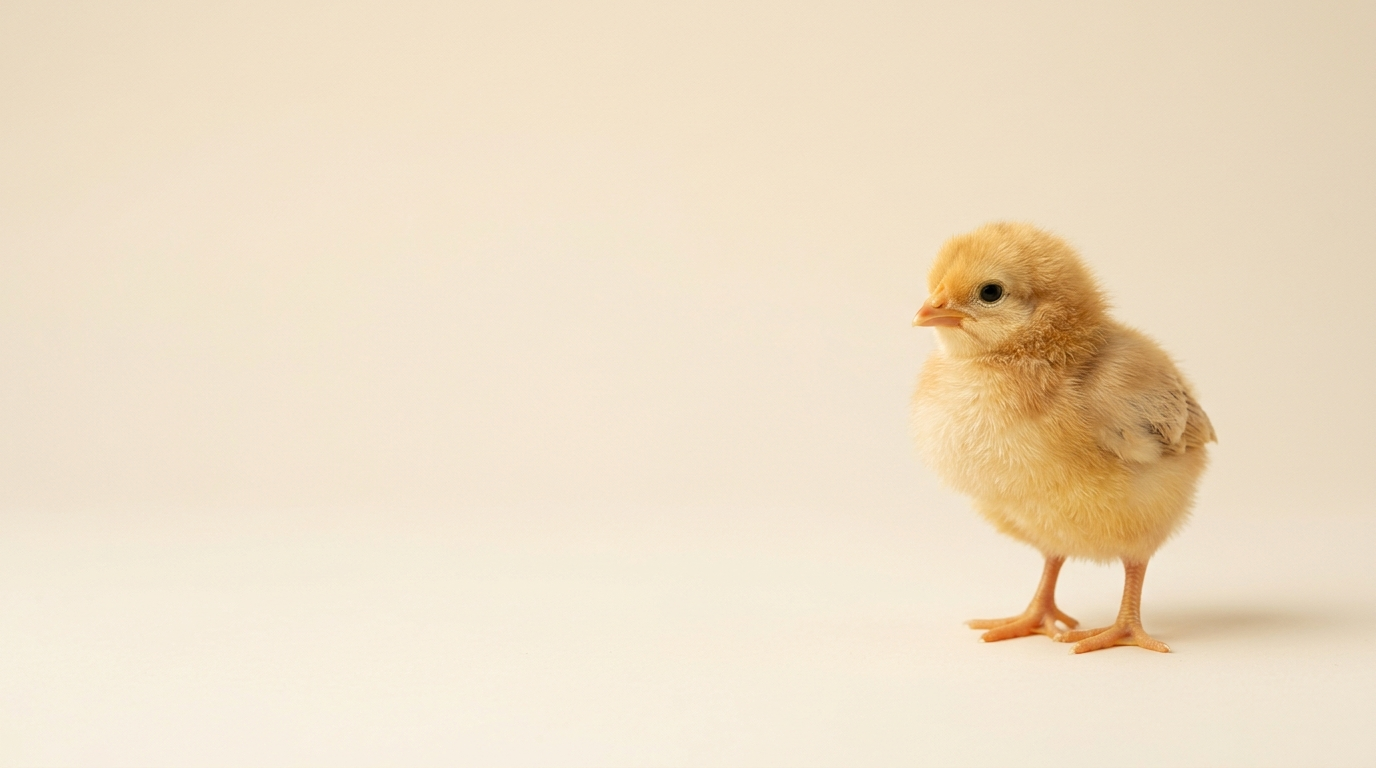
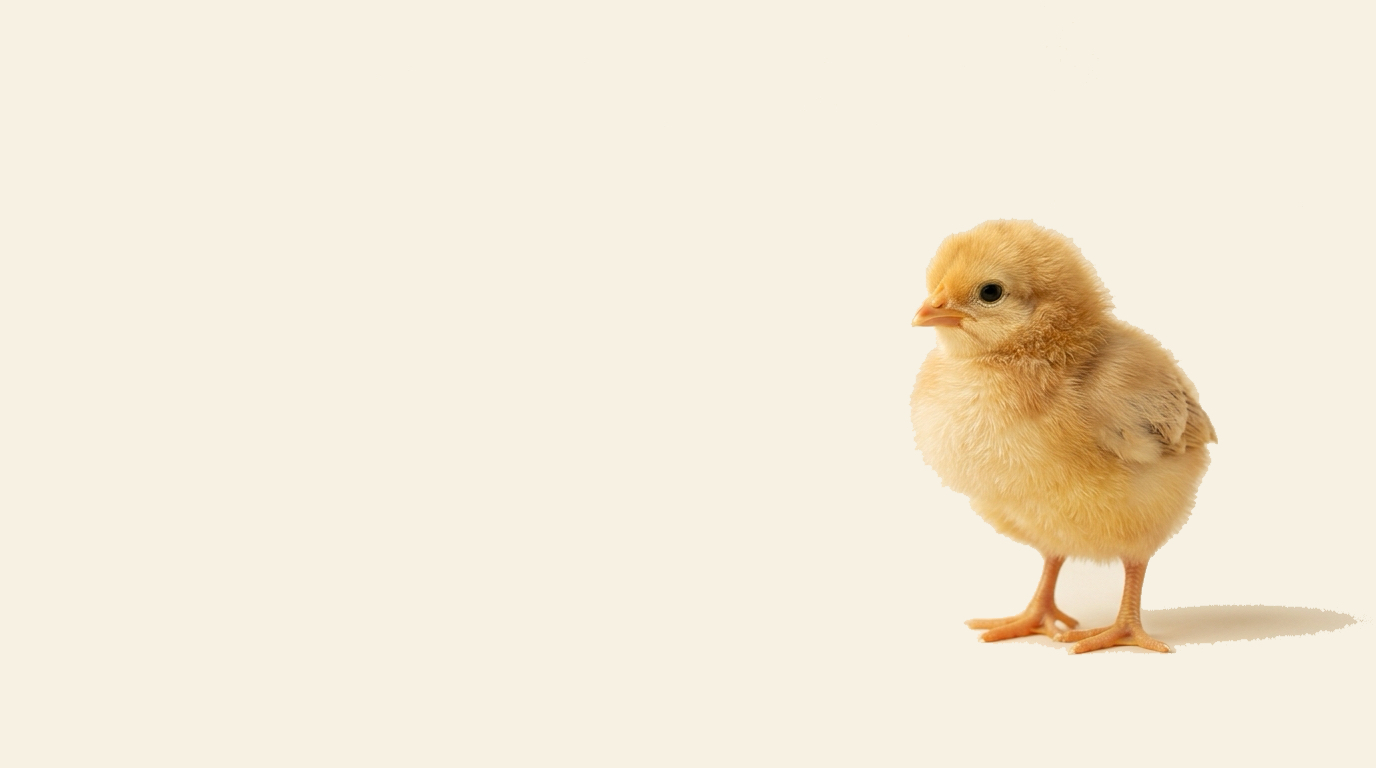
feat: refine image sizing and responsive spacing for hero, turnkey, and broiler integration

diff --git a/src/app/page.tsx b/src/app/page.tsx
@@ -9,14 +9,14 @@ const BM:{[k:string]:[string,string]}={red:[P.red,'rgba(211,47,47,0.1)'],green:[
 function PBadge({label,color}:{label:string;color:BC}){const[c,bg]=BM[color];return <span style={{background:bg,color:c,padding:'2px 8px',borderRadius:999,fontSize:'0.65rem',fontWeight:700,fontFamily:P.font,whiteSpace:'nowrap'}}>{label}</span>;}
 function PBtn({label,small=false,outline=false,onClick}:{label:string;small?:boolean;outline?:boolean;onClick?:()=>void}){return <button onClick={onClick} style={{background:outline?'transparent':P.red,color:outline?P.text:'white',border:outline?'1px solid rgba(0,0,0,0.15)':'none',borderRadius:P.rSm,padding:small?'0.18rem 0.5rem':'0.38rem 0.85rem',fontWeight:700,fontFamily:P.font,fontSize:small?'0.68rem':'0.78rem',cursor:'pointer',whiteSpace:'nowrap'}}>{label}</button>;}
 function PCard({children,style}:{children:React.ReactNode;style?:React.CSSProperties}){return <div style={{background:P.glass,backdropFilter:'blur(16px)',WebkitBackdropFilter:'blur(16px)',border:`1px solid ${P.glassBdr}`,borderRadius:P.rMd,boxShadow:P.shadow,padding:'0.9rem',...style}}>{children}</div>;}
-function PM({icon,label,value,color=P.text}:{icon:string;label:string;value:string;color?:string}){return <div style={{background:'rgba(255,255,255,0.7)',border:'1px solid rgba(0,0,0,0.06)',borderRadius:10,padding:'0.55rem 0.75rem'}}><div style={{fontSize:'0.5rem',fontWeight:700,color:P.muted,textTransform:'uppercase',letterSpacing:'0.05em',marginBottom:2,fontFamily:P.font}}>{icon} {label}</div><div style={{fontSize:'0.95rem',fontWeight:800,color,fontFamily:P.font,lineHeight:1}}>{value}</div></div>;}
+function PM({icon,label,value,color=P.text}:{icon:string;label:string;value:string;color?:string}){return <div style={{background:'rgba(255,255,255,0.7)',border:'1px solid rgba(0,0,0,0.06)',borderRadius:10,padding:'0.45rem 0.45rem',minWidth:0,overflow:'hidden'}}><div style={{fontSize:'0.48rem',fontWeight:700,color:P.muted,textTransform:'uppercase',letterSpacing:'0.04em',marginBottom:2,fontFamily:P.font,whiteSpace:'nowrap',overflow:'hidden',textOverflow:'ellipsis'}}>{icon} {label}</div><div style={{fontSize:'clamp(0.72rem, 1.6vw, 0.92rem)',fontWeight:800,color,fontFamily:P.font,lineHeight:1.1,whiteSpace:'nowrap',overflow:'hidden',textOverflow:'ellipsis'}}>{value}</div></div>;}
 function PT({headers,rows}:{headers:string[];rows:(string|React.ReactNode)[][]}){return <div style={{background:'rgba(255,255,255,0.7)',borderRadius:10,border:'1px solid rgba(0,0,0,0.06)',overflowX:'auto'}}><table style={{width:'100%',borderCollapse:'collapse',fontFamily:P.font,fontSize:'0.68rem'}}><thead><tr style={{background:'rgba(255,255,255,0.9)'}}>{headers.map((h,i)=><th key={i} style={{padding:'0.4rem 0.65rem',textAlign:'left',color:P.muted,fontWeight:700,fontSize:'0.6rem',borderBottom:'1px solid rgba(0,0,0,0.06)',whiteSpace:'nowrap'}}>{h}</th>)}</tr></thead><tbody>{rows.map((row,i)=><tr key={i} style={{borderBottom:i<rows.length-1?'1px solid rgba(0,0,0,0.04)':'none',background:i%2===0?'transparent':'rgba(255,255,255,0.3)'}}>{row.map((cell,j)=><td key={j} style={{padding:'0.45rem 0.65rem',color:P.text,verticalAlign:'middle'}}>{cell}</td>)}</tr>)}</tbody></table></div>;}
 
 const GVF={sheds:[{id:'s1',name:'Kamareddy-Shed-A',capacity:8500,rent:12000,elec:4500,water:1800,active:1},{id:'s2',name:'Kamareddy-Shed-B',capacity:7800,rent:11000,elec:4200,water:1600,active:1},{id:'s3',name:'Nizamabad-Shed-1',capacity:9200,rent:14000,elec:5200,water:2100,active:1},{id:'s4',name:'Nizamabad-Shed-2',capacity:8000,rent:12500,elec:4800,water:1900,active:1}],batches:[{id:'b1',name:'GVF-B1',shedName:'Kamareddy-Shed-A',placed:8423,age:42,live:8201,mort:222,mortPct:2.6,avgWt:2210,fcr:1.63,feed:540,startDate:'07/08/2026'},{id:'b2',name:'GVF-B2',shedName:'Kamareddy-Shed-B',placed:7756,age:35,live:7621,mort:135,mortPct:1.7,avgWt:1840,fcr:1.64,feed:430,startDate:'14/08/2026'},{id:'b3',name:'GVF-B3',shedName:'Nizamabad-Shed-1',placed:9100,age:28,live:9014,mort:86,mortPct:0.9,avgWt:1120,fcr:1.61,feed:285,startDate:'21/08/2026'},{id:'b4',name:'GVF-B4',shedName:'Nizamabad-Shed-2',placed:7980,age:15,live:7965,mort:15,mortPct:0.2,avgWt:420,fcr:1.58,feed:96,startDate:'03/09/2026'}],harvests:[{id:'h1',batch:'GVF-H3',shed:'Nizamabad-Shed-2',date:'22/07/2026',birds:7845,avgWt:2.24,totalKg:17573,rate:122,settlement:2143906},{id:'h2',batch:'GVF-H2',shed:'Kamareddy-Shed-A',date:'05/07/2026',birds:8312,avgWt:2.19,totalKg:18203,rate:118,settlement:2147954},{id:'h3',batch:'GVF-H1',shed:'Kamareddy-Shed-B',date:'18/06/2026',birds:7634,avgWt:2.21,totalKg:16871,rate:115,settlement:1940165}],feedLots:[{id:'l1',lot:'LOT-009',date:'14/09',cost:198400,preS:'0/20',starter:'—',finisher:'0/65',status:'ACTIVE'},{id:'l2',lot:'LOT-008',date:'07/09',cost:512000,preS:'0/25',starter:'8/110',finisher:'0/110',status:'ACTIVE'},{id:'l3',lot:'LOT-007',date:'01/09',cost:489600,preS:'0/60',starter:'0/90',finisher:'0/90',status:'DEPLETED'}],health:[{batch:'GVF-B2',date:'10/09',shed:'Kamareddy-Shed-B',med:'Refit Forte',type:'VITAMINS',cost:1200},{batch:'GVF-B2',date:'10/09',shed:'Kamareddy-Shed-B',med:'Terramycin',type:'ANTIBIOTIC',cost:2800},{batch:'GVF-B1',date:'02/09',shed:'Kamareddy-Shed-A',med:'Immune Boost Plus',type:'VITAMINS',cost:1500},{batch:'GVF-B3',date:'28/08',shed:'Nizamabad-Shed-1',med:'Vimeral Forte',type:'VITAMINS',cost:800}],accounting:[{batch:'GVF-H3',shed:'Nizamabad-Shed-2',status:'HARVESTED',exp:1724000,revenue:2143906,profit:419906},{batch:'GVF-H2',shed:'Kamareddy-Shed-A',status:'HARVESTED',exp:1821000,revenue:2147954,profit:326954},{batch:'GVF-H1',shed:'Kamareddy-Shed-B',status:'HARVESTED',exp:1585000,revenue:1940165,profit:355165},{batch:'GVF-B1',shed:'Kamareddy-Shed-A',status:'GROWING',exp:1184500,revenue:0,profit:-1184500},{batch:'GVF-B2',shed:'Kamareddy-Shed-B',status:'GROWING',exp:842000,revenue:0,profit:-842000}],logs:[{date:'17/09',shed:'Kamareddy-Shed-A',batch:'GVF-B1',logger:'Ravi Kumar',mort:3,starter:'—',finisher:'18 bags',fpb:188.2},{date:'17/09',shed:'Kamareddy-Shed-B',batch:'GVF-B2',logger:'Ravi Kumar',mort:2,starter:'—',finisher:'15 bags',fpb:156.8},{date:'17/09',shed:'Nizamabad-Shed-1',batch:'GVF-B3',logger:'Suresh M.',mort:1,starter:'—',finisher:'12 bags',fpb:106.4}],roles:[{name:'Co-Owner',desc:'1 user(s)'},{name:'Admin',desc:'Full access. 1 user(s)'},{name:'Field Manager',desc:'2 user(s)'},{name:'Logger',desc:'3 user(s)'}],users:[{name:'Prakash Reddy',email:'prakash@greenvalley.in',role:'OWNER'},{name:'Venkat R.',email:'venkat@greenvalley.in',role:'MANAGER'},{name:'Suresh M.',email:'suresh@greenvalley.in',role:'MANAGER'},{name:'Ravi Kumar',email:'ravi@greenvalley.in',role:'LOGGER'}]};
 
 const TAB_INFO:Record<string,{title:string;desc:string}>={OVERVIEW:{title:'Farm Overview',desc:'A live dashboard of every KPI — FCR, mortality, livability, EPEF and total active birds across all sheds in real time.'},SHEDS:{title:'Shed Management',desc:'Register all sheds with capacity, rent, electricity and water. Each shed auto-factors into batch P&L.'},BATCHES:{title:'Bird Batches',desc:'Track every batch from Day 1 — placement, age, live birds, mortality, average weight, FCR and feed consumed.'},FEED:{title:'Feed Lot Tracking',desc:'Every feed procurement logged as a lot — date, types, bags received, cost per bag, transport and labour.'},HARVESTS:{title:'Harvest Records',desc:'Record every harvest with birds collected, average weight, rate per kg, and net settlement.'},HEALTH:{title:'Flock Health Logs',desc:'Log every medication event or vaccination per batch. Total health cost accumulated automatically.'},ACCOUNTING:{title:'Accounting & P&L',desc:'Full batch-wise financial statements — chick cost, feed, health, overheads, revenue, net P&L and ROI.'},LOGS:{title:'Daily Logs',desc:"Field workers log mortality, culls and feed bags in under 2 minutes. Timestamped and photo-verified."},ACCESS:{title:'Access Management',desc:'Create custom roles with granular read/write permissions. Invite managers, loggers and partners.'}};
 
-function PRPOverview({onBatch}:{onBatch:(b:any)=>void}){return <div style={{display:'flex',flexDirection:'column',gap:'0.75rem'}}><PCard><div style={{fontFamily:P.font,fontWeight:700,fontSize:'0.82rem',marginBottom:'0.6rem'}}>Farm Summary</div><div style={{display:'grid',gridTemplateColumns:'repeat(4,1fr)',gap:'0.35rem',marginBottom:'0.4rem'}}><PM icon="🏷" label="Lifted" value="3" color="#E64A19"/><PM icon="💸" label="Expense" value="Rs51.3L" color={P.red}/><PM icon="💰" label="Revenue" value="Rs62.3L" color={P.success}/><PM icon="📈" label="Net P/L" value="+Rs11.0L" color={P.success}/></div><div style={{display:'grid',gridTemplateColumns:'repeat(4,1fr)',gap:'0.35rem'}}><PM icon="🌾" label="Feed" value="Rs35.6L" color="#795548"/><PM icon="🐥" label="Chicks" value="Rs11.2L" color="#F57F17"/><PM icon="💊" label="Health" value="Rs34,500" color="#1565C0"/><PM icon="👷" label="Labour" value="Rs2.80L" color="#1565C0"/></div></PCard><PCard><div style={{fontFamily:P.font,fontWeight:700,fontSize:'0.82rem',marginBottom:'0.6rem'}}>Production Averages</div><div style={{display:'grid',gridTemplateColumns:'repeat(3,1fr)',gap:'0.35rem'}}><PM icon="📊" label="FCR" value="1.58" color="#1565C0"/><PM icon="💀" label="Mortality" value="1.20%" color={P.success}/><PM icon="⚖" label="Avg Wt" value="2.25 kg" color={P.success}/><PM icon="📅" label="Avg Days" value="41.5 d" color="#1565C0"/><PM icon="⚡" label="EPEF" value="300" color={P.success}/><PM icon="✅" label="Livability" value="98.80%" color={P.success}/></div></PCard><PCard><div style={{fontFamily:P.font,fontWeight:700,fontSize:'0.82rem',marginBottom:'0.5rem'}}>Active Batches</div><PT headers={['Batch','Shed','Age','Placed','Live','Mort%','Avg Wt','FCR','']} rows={GVF.batches.map(b=>[<span key="n" style={{fontWeight:700}}>{b.name}</span>,b.shedName,`${b.age}d`,b.placed.toLocaleString('en-IN'),b.live.toLocaleString('en-IN'),<span key="m" style={{color:b.mortPct>3?P.red:P.warn,fontWeight:700}}>{b.mortPct}%</span>,`${b.avgWt}g`,<span key="f" style={{color:b.fcr<=1.65?P.success:P.red,fontWeight:700}}>{b.fcr.toFixed(2)}</span>,<PBtn key="v" label="View" small onClick={()=>onBatch(b)}/>])}/></PCard></div>;}
+function PRPOverview({onBatch}:{onBatch:(b:any)=>void}){return <div style={{display:'flex',flexDirection:'column',gap:'0.75rem'}}><PCard><div style={{fontFamily:P.font,fontWeight:700,fontSize:'0.82rem',marginBottom:'0.6rem'}}>Farm Summary</div><div style={{display:'grid',gridTemplateColumns:'repeat(4, minmax(0, 1fr))',gap:'0.3rem',marginBottom:'0.4rem'}}><PM icon="🏷" label="Lifted" value="3" color="#E64A19"/><PM icon="💸" label="Expense" value="Rs51.3L" color={P.red}/><PM icon="💰" label="Revenue" value="Rs62.3L" color={P.success}/><PM icon="📈" label="Net P/L" value="+Rs11.0L" color={P.success}/></div><div style={{display:'grid',gridTemplateColumns:'repeat(4, minmax(0, 1fr))',gap:'0.3rem'}}><PM icon="🌾" label="Feed" value="Rs35.6L" color="#795548"/><PM icon="🐥" label="Chicks" value="Rs11.2L" color="#F57F17"/><PM icon="💊" label="Health" value="Rs34,500" color="#1565C0"/><PM icon="👷" label="Labour" value="Rs2.80L" color="#1565C0"/></div></PCard><PCard><div style={{fontFamily:P.font,fontWeight:700,fontSize:'0.82rem',marginBottom:'0.6rem'}}>Production Averages</div><div style={{display:'grid',gridTemplateColumns:'repeat(3, minmax(0, 1fr))',gap:'0.3rem'}}><PM icon="📊" label="FCR" value="1.58" color="#1565C0"/><PM icon="💀" label="Mortality" value="1.20%" color={P.success}/><PM icon="⚖" label="Avg Wt" value="2.25 kg" color={P.success}/><PM icon="📅" label="Avg Days" value="41.5 d" color="#1565C0"/><PM icon="⚡" label="EPEF" value="300" color={P.success}/><PM icon="✅" label="Livability" value="98.80%" color={P.success}/></div></PCard><PCard><div style={{fontFamily:P.font,fontWeight:700,fontSize:'0.82rem',marginBottom:'0.5rem'}}>Active Batches</div><PT headers={['Batch','Shed','Age','Placed','Live','Mort%','Avg Wt','FCR','']} rows={GVF.batches.map(b=>[<span key="n" style={{fontWeight:700}}>{b.name}</span>,b.shedName,`${b.age}d`,b.placed.toLocaleString('en-IN'),b.live.toLocaleString('en-IN'),<span key="m" style={{color:b.mortPct>3?P.red:P.warn,fontWeight:700}}>{b.mortPct}%</span>,`${b.avgWt}g`,<span key="f" style={{color:b.fcr<=1.65?P.success:P.red,fontWeight:700}}>{b.fcr.toFixed(2)}</span>,<PBtn key="v" label="View" small onClick={()=>onBatch(b)}/>])}/></PCard></div>;}
 function PRPSheds({onManage}:{onManage:(s:any)=>void}){return <div style={{display:'flex',flexDirection:'column',gap:'0.75rem'}}><div style={{display:'flex',justifyContent:'space-between',alignItems:'center'}}><div style={{fontFamily:P.font,fontSize:'0.95rem',fontWeight:700}}>Sheds</div><PBtn label="+ New Shed"/></div><PCard style={{padding:0}}><div style={{padding:'0.35rem'}}>{GVF.sheds.map(s=><div key={s.id} style={{background:'rgba(255,255,255,0.7)',padding:'0.55rem 0.75rem',borderRadius:P.rSm,marginBottom:'0.28rem',display:'flex',justifyContent:'space-between',alignItems:'center'}}><div><div style={{fontFamily:P.font,fontWeight:700,fontSize:'0.82rem'}}>{s.name}</div><div style={{fontFamily:P.font,fontSize:'0.65rem',color:P.muted}}>Capacity: {s.capacity.toLocaleString()}</div></div><div style={{display:'flex',gap:'0.3rem',alignItems:'center'}}><PBadge label={`${s.active} Active`} color="red"/><PBtn label="Manage" small onClick={()=>onManage(s)}/></div></div>)}</div></PCard></div>;}
 function PRPShedDetail({shed}:{shed:any}){const ab=GVF.batches.find(b=>b.shedName===shed.name);return <div style={{display:'flex',flexDirection:'column',gap:'0.75rem'}}><div style={{fontFamily:P.font,fontSize:'0.95rem',fontWeight:700}}>{shed.name}</div><div style={{display:'grid',gridTemplateColumns:'repeat(3,1fr)',gap:'0.35rem'}}><PM icon="🐔" label="Capacity" value={shed.capacity.toLocaleString()}/><PM icon="⚡" label="Active" value={`${shed.active}`} color={P.red}/><PM icon="💰" label="Monthly OH" value={`Rs${(shed.rent+shed.elec+shed.water).toLocaleString()}`}/></div>{ab&&<PCard><div style={{fontFamily:P.font,fontWeight:700,fontSize:'0.82rem'}}>{ab.name} — Age: {ab.age}d · FCR: {ab.fcr}</div></PCard>}</div>;}
 function PRPBatches({onManage}:{onManage:(b:any)=>void}){return <div style={{display:'flex',flexDirection:'column',gap:'0.75rem'}}><div style={{display:'flex',justifyContent:'space-between',alignItems:'center'}}><div style={{fontFamily:P.font,fontSize:'0.95rem',fontWeight:700}}>Bird Batches</div><PBtn label="New Batch"/></div><PCard style={{padding:0}}><PT headers={['Batch','Shed','Started','Age','Placed','Live','Mort%','Avg Wt','FCR','Status','']} rows={GVF.batches.map(b=>[<span key="n" style={{fontWeight:700}}>{b.name}</span>,b.shedName,b.startDate,`${b.age}d`,b.placed.toLocaleString('en-IN'),<span key="l" style={{color:P.success,fontWeight:700}}>{b.live.toLocaleString('en-IN')}</span>,<span key="m" style={{color:b.mortPct>3?P.red:P.warn,fontWeight:700}}>{b.mortPct}%</span>,`${b.avgWt}g`,<span key="f" style={{color:b.fcr<=1.65?P.success:P.red,fontWeight:700}}>{b.fcr.toFixed(2)}</span>,<PBadge key="s" label="GROWING" color="amber"/>,<PBtn key="btn" label="Manage" small onClick={()=>onManage(b)}/>])}/></PCard></div>;}
@@ -56,26 +56,32 @@ function Navbar({onContact}:{onContact:()=>void}){const[sc,setSc]=useState(false
 
 function Hero(){
   return (
-    <section style={{
+    <section className="hero-section" style={{
       position: 'relative',
       minHeight: '100vh',
-      backgroundImage: "url('/hero-single-chick.jpg')",
-      backgroundSize: 'cover',
-      backgroundPosition: 'center right',
-      backgroundRepeat: 'no-repeat',
+      backgroundColor: C.bg,
       display: 'flex',
       alignItems: 'center',
       paddingTop: '5rem',
       overflow: 'hidden'
     }}>
-      {/* Soft gradient overlay to ensure crisp text readability on desktop and mobile */}
-      <div style={{
+      {/* Chicken visual layer */}
+      <div className="hero-chick-layer" style={{
         position: 'absolute',
         inset: 0,
-        background: 'linear-gradient(90deg, rgba(247,241,227,0.92) 0%, rgba(247,241,227,0.7) 50%, rgba(247,241,227,0.2) 85%)',
+        backgroundImage: "url('/hero-single-chick.jpg')",
+        backgroundRepeat: 'no-repeat',
         pointerEvents: 'none',
         zIndex: 1
-      }}/>
+      }} />
+
+      {/* Desktop / iPad Landscape text protection gradient (stops before chicken on right) */}
+      <div className="hero-desktop-overlay" style={{
+        position: 'absolute',
+        inset: 0,
+        pointerEvents: 'none',
+        zIndex: 1
+      }} />
       
       <div style={{
         position: 'relative',
@@ -212,7 +218,7 @@ const SVC=[{Icon:IconIntegration,title:'Broiler Integration',line:'Contract farm
 
 function ServicesSection(){
   return (
-    <section id="services" style={{ background: C.white, borderTop: `1px solid ${C.border}` }}>
+    <section id="services" style={{ background: C.white }}>
       <div className="services-outer-grid" style={{
         maxWidth: 1160,
         margin: '0 auto',
@@ -312,13 +318,12 @@ function IntegrationSection({onContact}:{onContact?:()=>void}){
       position: 'relative',
       minHeight: '88vh',
       backgroundColor: '#FFFFFF',
+      borderTop: `1px solid ${C.border}`,
       backgroundImage: "url('/integration-white-chickens.jpg')",
-      backgroundSize: '960px auto',
-      backgroundPosition: 'center center',
       backgroundRepeat: 'no-repeat',
       display: 'flex',
       alignItems: 'center',
-      padding: '3rem 0 6.5rem',
+      padding: '4.5rem 0 5.5rem',
       overflow: 'hidden'
     }}>
       <div className="integration-grid" style={{
@@ -356,8 +361,8 @@ function IntegrationSection({onContact}:{onContact?:()=>void}){
           </h2>
         </div>
 
-        {/* Center: Open gap for chickens */}
-        <div className="integration-center-spacer" style={{ minHeight: 440, pointerEvents: 'none' }} />
+        {/* Center: Chickens image container */}
+        <div className="integration-center-spacer" style={{ pointerEvents: 'none' }} />
 
         {/* Right Column: User copy & Get in Touch CTA */}
         <div>
@@ -410,12 +415,8 @@ function TurnkeySection(){
         className="turnkey-section"
         style={{
           position: 'relative',
-          minHeight: '88vh',
           backgroundColor: '#FFFFFF',
-          backgroundImage: "url('/turnkey-couple-ipad-white.jpg')",
-          backgroundSize: '1000px auto',
-          backgroundPosition: '2.5cm center',
-          backgroundRepeat: 'no-repeat',
+          borderTop: `1px solid ${C.border}`,
           display: 'flex',
           alignItems: 'center',
           padding: '6.5rem 0',
@@ -434,11 +435,8 @@ function TurnkeySection(){
             width: '100%',
           }}
         >
-          {/* Left Column: Buffer for the complete couple */}
-          <div className="turnkey-spacer" style={{ minHeight: 480, pointerEvents: 'none' }} />
-
-          {/* Right Column: Section text block with Apple fade-in-up */}
-          <div style={{ maxWidth: 540 }}>
+          {/* Mobile-only Title at top */}
+          <div className="turnkey-mobile-title">
             <div
               className="rv"
               style={{
@@ -469,6 +467,46 @@ function TurnkeySection(){
               <span style={{ display: 'block' }}>Build Alternate Wealth.</span>
               <span style={{ color: C.amber, display: 'block' }}>From Your Home.</span>
             </h2>
+          </div>
+
+          {/* Spacer / Container for couple image */}
+          <div className="turnkey-spacer" style={{ pointerEvents: 'none' }} />
+
+          {/* Right Column (desktop) / Bottom Block (mobile) */}
+          <div className="turnkey-content-col" style={{ maxWidth: 540 }}>
+            {/* Desktop-only Title */}
+            <div className="turnkey-desktop-title">
+              <div
+                className="rv"
+                style={{
+                  fontFamily: '"Inter",sans-serif',
+                  fontSize: '0.78rem',
+                  fontWeight: 700,
+                  color: C.amber,
+                  letterSpacing: '0.16em',
+                  textTransform: 'uppercase',
+                  marginBottom: '1rem'
+                }}
+              >
+                Turnkey Broiler Operation
+              </div>
+              
+              <h2
+                className="rv rv-d1"
+                style={{
+                  fontFamily: '"Playfair Display",serif',
+                  fontSize: 'clamp(2.1rem, 3.4vw, 2.85rem)',
+                  fontWeight: 900,
+                  color: C.dark,
+                  lineHeight: 1.16,
+                  marginBottom: '1.4rem',
+                  letterSpacing: '-0.02em'
+                }}
+              >
+                <span style={{ display: 'block' }}>Build Alternate Wealth.</span>
+                <span style={{ color: C.amber, display: 'block' }}>From Your Home.</span>
+              </h2>
+            </div>
             
             <p
               className="rv rv-d2"
@@ -636,16 +674,18 @@ function SoftwareSection({onContact}:{onContact:()=>void}){
 
 function AboutSection(){
   return (
-    <section id="about" style={{background:C.white,borderTop:`1px solid ${C.border}`}}>
+    <section id="about" style={{background:C.white,borderTop:`1px solid ${C.border}`,borderBottom:`1px solid ${C.border}`}}>
       <div className="about-grid about-container" style={{maxWidth:1160,margin:'0 auto',padding:'clamp(4rem, 8vw, 8rem) clamp(1.25rem, 4vw, 2rem)',alignItems:'start'}}>
-        <div className="rv-left">
+        <div>
           <div className="rv" style={{fontFamily:'"Inter",sans-serif',fontSize:'0.72rem',fontWeight:700,color:C.amber,letterSpacing:'0.16em',textTransform:'uppercase',marginBottom:'0.85rem'}}>Our Philosophy</div>
-          <h2 style={{fontFamily:'"Playfair Display",serif',fontSize:'clamp(2.1rem, 3.4vw, 2.85rem)',fontWeight:900,color:C.dark,lineHeight:1.12,marginBottom:'1.25rem'}}>Built on Data,<br/>Transparency<br/>&amp; Trust.</h2>
-          <p style={{fontFamily:'"DM Sans",sans-serif',fontSize:'0.97rem',color:C.mid,lineHeight:1.85,marginBottom:'2.5rem'}}>Poultry farming is about consistent execution and honest numbers. Every decision we make is backed by real field data, shared openly with everyone involved.</p>
-          <MinBtn label="Get in Touch" onClick={()=>document.getElementById('footer')?.scrollIntoView({behavior:'smooth'})} icon={<ArrowRight size={14}/>}/>
+          <h2 className="rv rv-d1" style={{fontFamily:'"Playfair Display",serif',fontSize:'clamp(2.1rem, 3.4vw, 2.85rem)',fontWeight:900,color:C.dark,lineHeight:1.12,marginBottom:'1.25rem'}}>Built on Data,<br/>Transparency<br/>&amp; Trust.</h2>
+          <p className="rv rv-d2" style={{fontFamily:'"DM Sans",sans-serif',fontSize:'0.97rem',color:C.mid,lineHeight:1.85,marginBottom:'2.5rem'}}>Poultry farming is about consistent execution and honest numbers. Every decision we make is backed by real field data, shared openly with everyone involved.</p>
+          <div className="rv rv-d3">
+            <MinBtn label="Get in Touch" onClick={()=>document.getElementById('footer')?.scrollIntoView({behavior:'smooth'})} icon={<ArrowRight size={14}/>}/>
+          </div>
         </div>
-        <div className="rv-right" style={{display:'flex',flexDirection:'column',gap:'2.5rem'}}>
-          {[{t:'Data before decisions',d:'We log before we act. FCR, mortality, weight — every number goes into PRP before any management call is made.'},{t:'Same numbers, both sides',d:'Our clients see the exact same P&L we do. No curated reports, no selective sharing — ever.'},{t:'Measurable targets only',d:'Every batch starts with a specific FCR and livability target. We close with a verified result, not a narrative.'},{t:'Partnership model',d:'We succeed when you succeed. Our income is tied to batch performance, not a flat management fee.'}].map((p,i)=><div key={p.t} style={{display:'flex',gap:'1.25rem',alignItems:'flex-start'}}><div style={{width:34,height:34,borderRadius:'50%',background:C.bg,border:`1px solid ${C.border}`,display:'flex',alignItems:'center',justifyContent:'center',fontFamily:'"Playfair Display",serif',fontWeight:900,fontSize:'0.75rem',color:C.amber,flexShrink:0}}>{String(i+1).padStart(2,'0')}</div><div><div style={{fontFamily:'"Playfair Display",serif',fontWeight:700,fontSize:'1rem',color:C.dark,marginBottom:'0.3rem'}}>{p.t}</div><div style={{fontFamily:'"DM Sans",sans-serif',fontSize:'0.87rem',color:C.mid,lineHeight:1.75}}>{p.d}</div></div></div>)}
+        <div style={{display:'flex',flexDirection:'column',gap:'2.5rem'}}>
+          {[{t:'Data before decisions',d:'We log before we act. FCR, mortality, weight — every number goes into PRP before any management call is made.'},{t:'Same numbers, both sides',d:'Our clients see the exact same P&L we do. No curated reports, no selective sharing — ever.'},{t:'Measurable targets only',d:'Every batch starts with a specific FCR and livability target. We close with a verified result, not a narrative.'},{t:'Partnership model',d:'We succeed when you succeed. Our income is tied to batch performance, not a flat management fee.'}].map((p,i)=><div key={p.t} className={`rv rv-d${Math.min(i+1, 4)}`} style={{display:'flex',gap:'1.25rem',alignItems:'flex-start'}}><div style={{width:34,height:34,borderRadius:'50%',background:C.bg,border:`1px solid ${C.border}`,display:'flex',alignItems:'center',justifyContent:'center',fontFamily:'"Playfair Display",serif',fontWeight:900,fontSize:'0.75rem',color:C.amber,flexShrink:0}}>{String(i+1).padStart(2,'0')}</div><div><div style={{fontFamily:'"Playfair Display",serif',fontWeight:700,fontSize:'1rem',color:C.dark,marginBottom:'0.3rem'}}>{p.t}</div><div style={{fontFamily:'"DM Sans",sans-serif',fontSize:'0.87rem',color:C.mid,lineHeight:1.75}}>{p.d}</div></div></div>)}
         </div>
       </div>
     </section>
@@ -659,7 +699,7 @@ function Footer({onContact}:{onContact:()=>void}){
     <footer id="footer" style={{background:C.dark,padding:'4rem 0 2rem'}}>
       <div style={{maxWidth:1160,margin:'0 auto',padding:'0 clamp(1.25rem, 4vw, 2rem)'}}>
         <div className="footer-grid" style={{paddingBottom:'3rem',borderBottom:'1px solid rgba(255,255,255,0.06)',marginBottom:'2rem'}}>
-          <div>
+          <div className="footer-brand-col">
             <div style={{fontFamily:'"Playfair Display",serif',fontWeight:700,fontSize:'1.1rem',color:'#fff',marginBottom:'0.75rem'}}>Coop Works<span style={{color:C.amber}}> Consulting</span></div>
             <p style={{fontFamily:'"DM Sans",sans-serif',fontSize:'0.85rem',color:'rgba(255,255,255,0.32)',lineHeight:1.78,maxWidth:240,marginBottom:'1.5rem'}}>Data-driven poultry consulting — integration, turnkey, software, and advisory.</p>
             <button onClick={onContact} style={{display:'inline-flex',alignItems:'center',gap:6,padding:'0.6rem 1.25rem',borderRadius:4,background:C.amber,color:'#fff',fontFamily:'"Inter",sans-serif',fontWeight:600,fontSize:'0.82rem',border:'none',cursor:'pointer'}}>Contact Us <ArrowRight size={13}/></button>

diff --git a/src/app/globals.css b/src/app/globals.css
@@ -1859,66 +1859,134 @@ body { background: #F7F1E3; color: #1C1813; }
   }
 }
 
+/* Hero Section Chick Layer & Overlay */
+.hero-chick-layer {
+  opacity: 1;
+  background-position: right center;
+  background-size: clamp(900px, 85vw, 1376px) auto;
+  transition: opacity 0.3s ease;
+}
+.hero-desktop-overlay {
+  display: none;
+}
+
+@media (max-width: 1024px) and (orientation: portrait), (max-width: 850px) {
+  .hero-chick-layer {
+    opacity: 0.28 !important;
+    background-position: 72% center !important;
+    background-size: clamp(800px, 130vw, 1100px) auto !important;
+  }
+}
+
 /* Integration Section */
+.integration-section {
+  background-size: clamp(800px, 68vw, 980px) auto;
+  background-position: center center;
+}
 .integration-grid {
   display: grid;
   grid-template-columns: 1fr 1.5fr 1fr;
   align-items: center;
   gap: 1.75rem;
 }
-@media (max-width: 1024px) {
+.integration-center-spacer {
+  display: block;
+  width: 100%;
+  height: clamp(380px, 32vw, 460px);
+}
+@media (max-width: 1024px) and (orientation: portrait), (max-width: 850px) {
   .integration-section {
-    background-size: 600px auto !important;
-    background-position: center top 2rem !important;
-    padding: 4rem 0 !important;
+    background-image: none !important;
+    padding: 1.5rem 0 1.75rem !important;
+    min-height: auto !important;
   }
   .integration-grid {
     grid-template-columns: 1fr !important;
-    gap: 2rem !important;
+    gap: 0 !important;
     text-align: left;
   }
   .integration-center-spacer {
-    min-height: 240px !important;
+    display: block !important;
+    width: 100% !important;
+    min-height: 0 !important;
+    height: clamp(340px, 44vw, 440px) !important;
+    background-image: url('/integration-white-chickens.jpg') !important;
+    background-size: contain !important;
+    background-position: center center !important;
+    background-repeat: no-repeat !important;
+    margin: 0.5rem 0 0.65rem 0 !important;
   }
 }
-@media (max-width: 640px) {
+@media (max-width: 680px) {
+  .integration-center-spacer {
+    height: clamp(170px, 34vw, 220px) !important;
+    background-size: clamp(520px, 145vw, 680px) auto !important;
+    margin: 0.25rem 0 0.35rem 0 !important;
+  }
+}
+@media (max-width: 480px) {
   .integration-section {
-    background-size: 100% auto !important;
-    background-position: center 12rem !important;
+    padding: 1.25rem 0 1.5rem !important;
   }
   .integration-center-spacer {
-    min-height: 200px !important;
+    height: clamp(140px, 36vw, 175px) !important;
+    background-size: clamp(480px, 150vw, 580px) auto !important;
+    margin: 2.1rem 0 !important;
   }
 }
 
 /* Turnkey Section */
 .turnkey-grid {
   display: grid;
-  grid-template-columns: 1.15fr 1fr;
+  grid-template-columns: 1.2fr 1fr;
   align-items: center;
-  gap: 1.75rem;
+  gap: clamp(2.5rem, 5vw, 4.5rem);
 }
-@media (max-width: 1024px) {
+.turnkey-mobile-title {
+  display: none;
+}
+.turnkey-desktop-title {
+  display: block;
+}
+.turnkey-spacer {
+  display: block;
+  width: 100%;
+  height: clamp(480px, 44vw, 640px);
+  background-image: url('/turnkey-couple-ipad-white.jpg');
+  background-size: contain;
+  background-position: center center;
+  background-repeat: no-repeat;
+}
+@media (max-width: 1024px) and (orientation: portrait), (max-width: 850px) {
   .turnkey-section {
-    background-size: 640px auto !important;
-    background-position: center top 1rem !important;
-    padding: 4rem 0 !important;
+    background-image: none !important;
+    padding: 3.5rem 0 4.5rem !important;
+    min-height: auto !important;
   }
   .turnkey-grid {
     grid-template-columns: 1fr !important;
-    gap: 2rem !important;
+    gap: 0 !important;
+  }
+  .turnkey-mobile-title {
+    display: block !important;
+    margin-bottom: 2rem !important;
+  }
+  .turnkey-desktop-title {
+    display: none !important;
   }
   .turnkey-spacer {
-    min-height: 280px !important;
+    display: block !important;
+    width: 100% !important;
+    min-height: 0 !important;
+    height: clamp(320px, 52vw, 500px) !important;
+    background-image: url('/turnkey-couple-ipad-white.jpg') !important;
+    background-size: contain !important;
+    background-position: center center !important;
+    background-repeat: no-repeat !important;
+    margin-bottom: 2.25rem !important;
   }
-}
-@media (max-width: 640px) {
-  .turnkey-section {
-    background-size: 100% auto !important;
-    background-position: center 10rem !important;
-  }
-  .turnkey-spacer {
-    min-height: 220px !important;
+  .turnkey-content-col {
+    max-width: 100% !important;
   }
 }
 
@@ -1987,6 +2055,9 @@ body { background: #F7F1E3; color: #1C1813; }
   gap: 3rem;
 }
 @media (max-width: 860px) {
+  .footer-brand-col {
+    grid-column: 1 / -1 !important;
+  }
   .footer-grid {
     grid-template-columns: 1fr 1fr !important;
     gap: 2.5rem !important;
@@ -1994,7 +2065,7 @@ body { background: #F7F1E3; color: #1C1813; }
 }
 @media (max-width: 520px) {
   .footer-grid {
-    grid-template-columns: 1fr !important;
+    grid-template-columns: 1fr 1fr !important;
     gap: 2rem !important;
   }
 }
